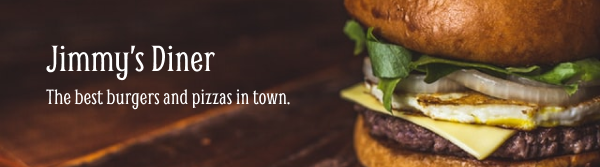
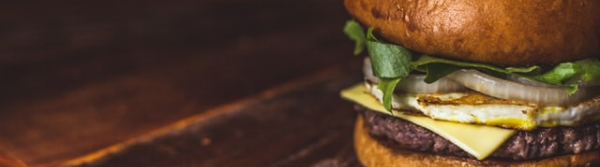
initial html structure,css and js

Changed region(s): [[0.06, 0.2695, 0.36, 0.479], [0.06, 0.5389, 0.48, 0.6587]]

diff --git a/index.html b/index.html
@@ -1,9 +1,32 @@
 <html>
     <head>
-       <link rel="stylesheet" href="index.css">
+        <link rel="stylesheet" href="index.css">
+        <link rel="preconnect" href="https://fonts.googleapis.com">
+        <link rel="preconnect" href="https://fonts.gstatic.com" crossorigin>
+        <link href="https://fonts.googleapis.com/css2?family=Roboto:ital,wght@0,100..900;1,100..900&family=Smythe&display=swap" rel="stylesheet">
     </head>
+    
     <body>
-	<script src="index.js"></script>
+    <div class="container">
+        <header>
+            <img id="banner" src="./images/header.png">
+            <div class="header-content">
+                <h1>Jimmy's Diner</h1>
+                <p>The best burgers and pizzas in town.</p>
+            </div>  
+        </header>
+
+        <main>
+            <div id="menu">
+                <!-- Menu items populated by JavaScript -->
+            </div>
+
+            <div id="order">
+            </div>
+        </main>
+
+	<script src="index.js" type="module"></script>
+    </div>
     </body>
 </html>
 

diff --git a/index.css b/index.css
@@ -1,3 +1,47 @@
 body {
     margin: 0;
+    font-family: "Smythe", system-ui;
+    font-weight: 400;
+    font-style: normal;
+
+
 } 
+
+.container {
+    max-width: 600px;
+    display: flex;
+    align-items: center;
+    flex-direction: column;
+
+    margin-left: auto;
+    margin-right: auto;
+    
+}
+
+/* header */
+#banner {
+    position: absolute;
+}
+
+.header-content {
+    position: relative;
+    left: 0;
+    top: 0;
+
+    padding: 20px;
+    margin-bottom: 50px;
+
+    color: whitesmoke;
+
+}
+
+/* main */
+
+.item {
+    display: flex;
+    align-items: center;
+    gap: 20px;
+}
+
+.icon {
+}

diff --git a/data.js b/data.js
@@ -4,20 +4,22 @@ const menuArray = [
         ingredients: ["pepperoni", "mushrom", "mozarella"],
         id: 0,
         price: 14,
-        emoji: "🍕"
+        image: "pizza"
     },
     {
         name: "Hamburger",
         ingredients: ["beef", "cheese", "lettuce"],
         price: 12,
-        emoji: "🍔",
+        image: "hamburger",
         id: 1
     },
         {
         name: "Beer",
         ingredients: ["grain, hops, yeast, water"],
         price: 12,
-        emoji: "🍺",
+        image: "beer",
         id: 2
     }
 ]
+
+export default menuArray

diff --git a/index.js b/index.js
@@ -1,0 +1,17 @@
+import menuArray from "./data.js";
+
+function renderMenu(){
+    document.getElementById("menu").innerHTML = menuArray.map(item => `
+        <div class="item">
+            <img class="icon" src="images/${item.image}.png">
+            <div>
+                <h2>${item.name}</h2>
+                <p>${item.ingredients}</p>
+                <p>${item.price}</p>
+            </div>
+        </div>
+        `
+    ).join('')
+}
+console.log()
+renderMenu()
